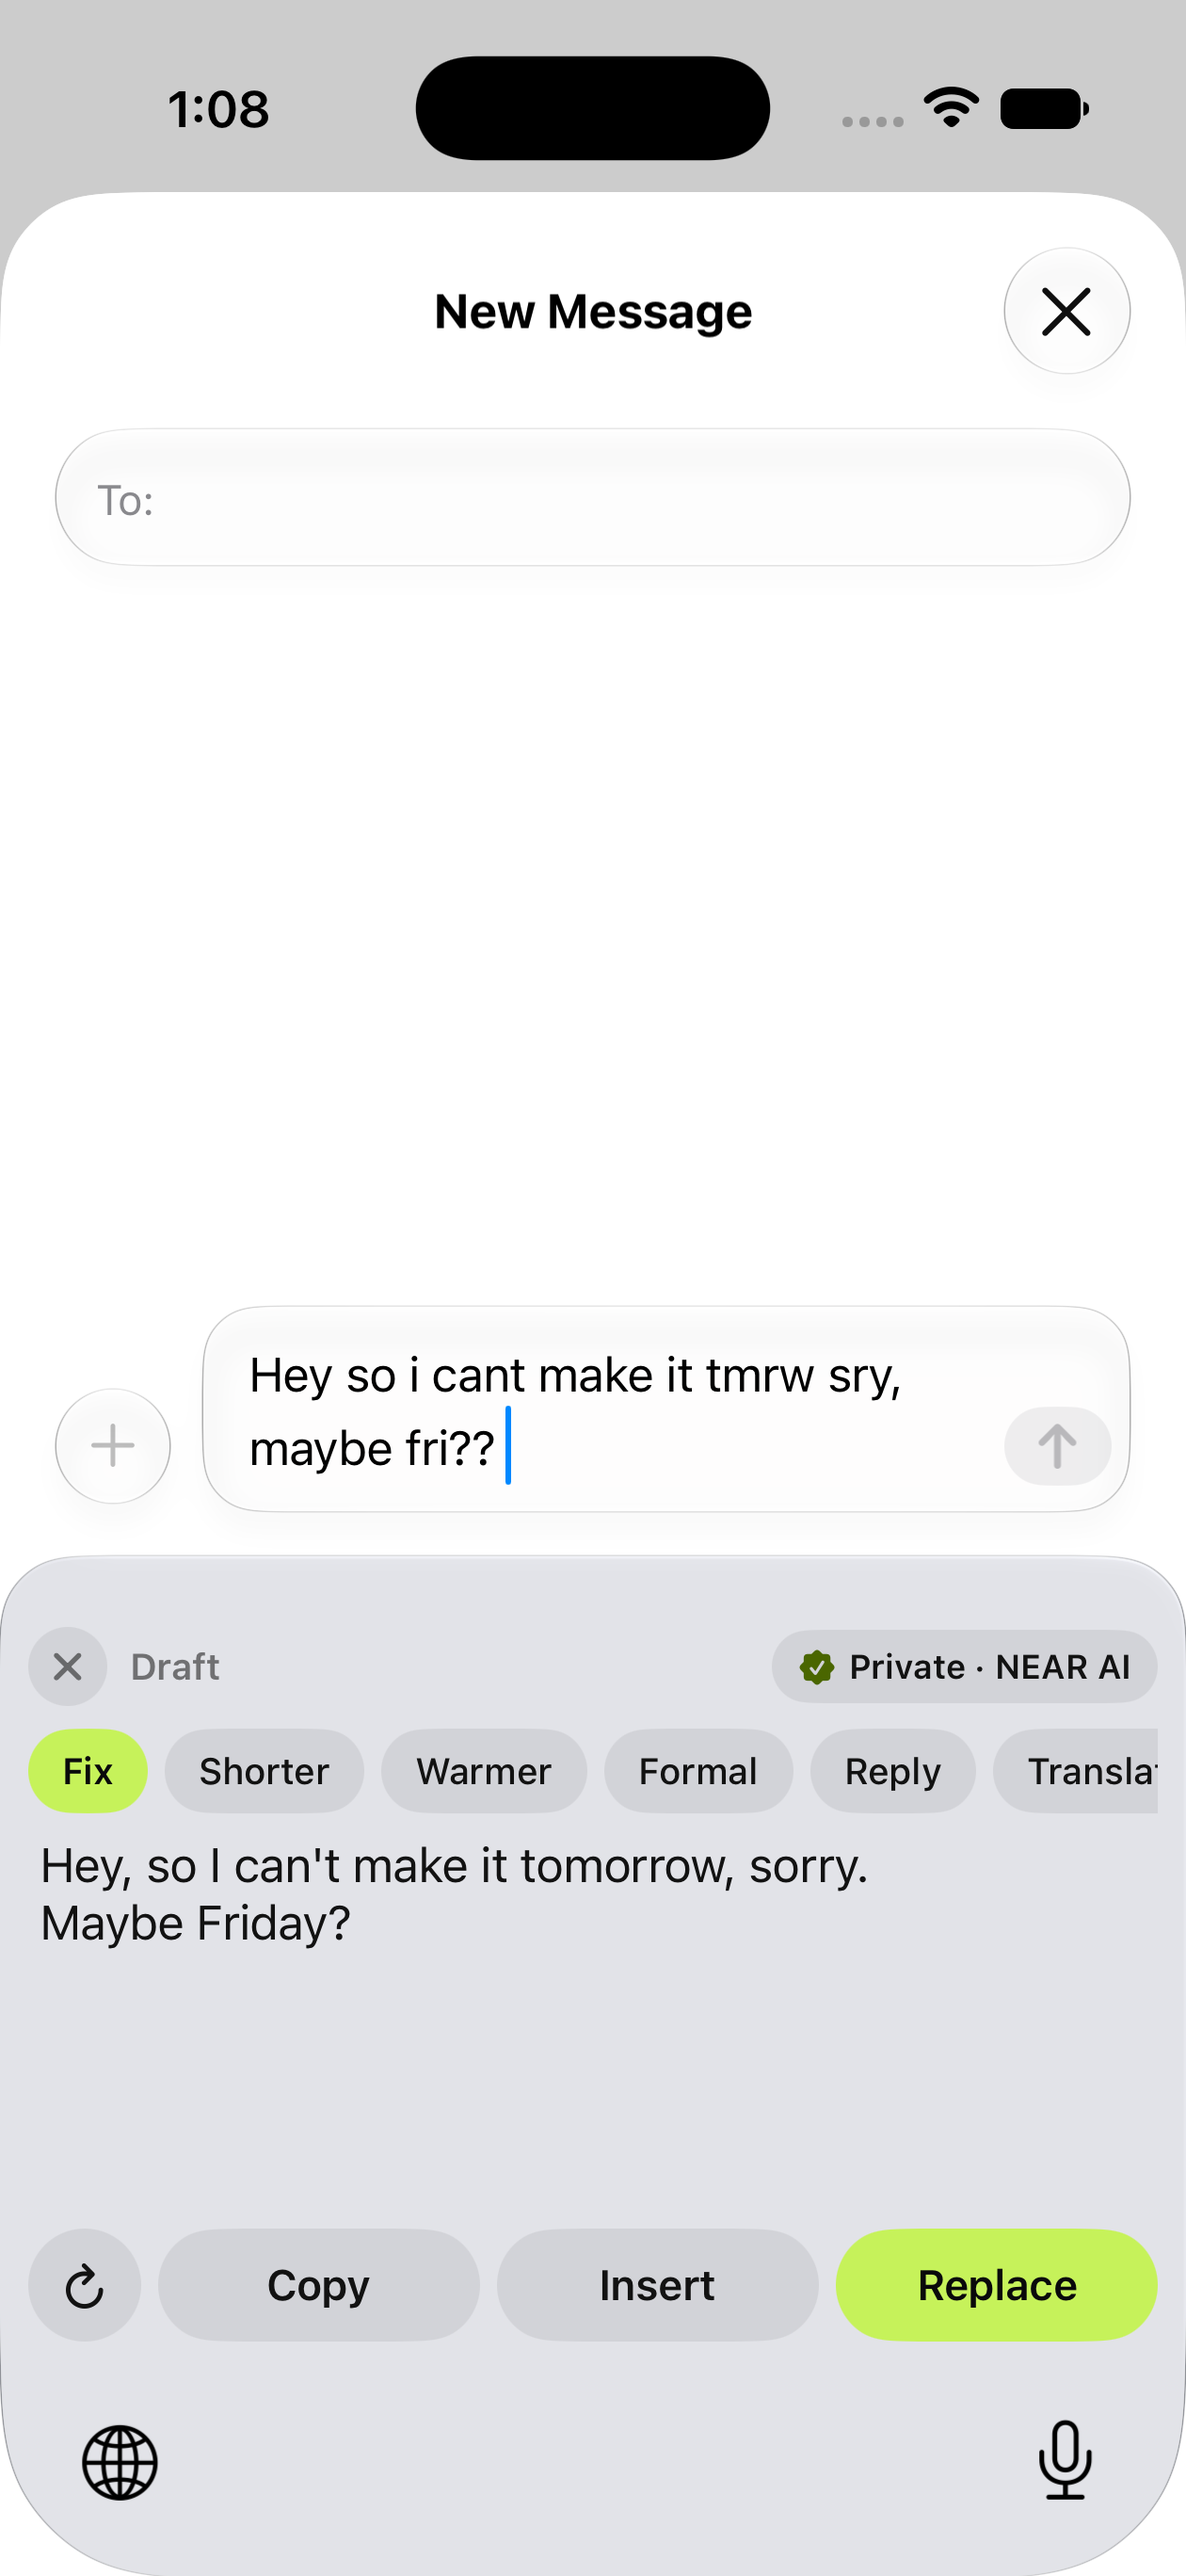
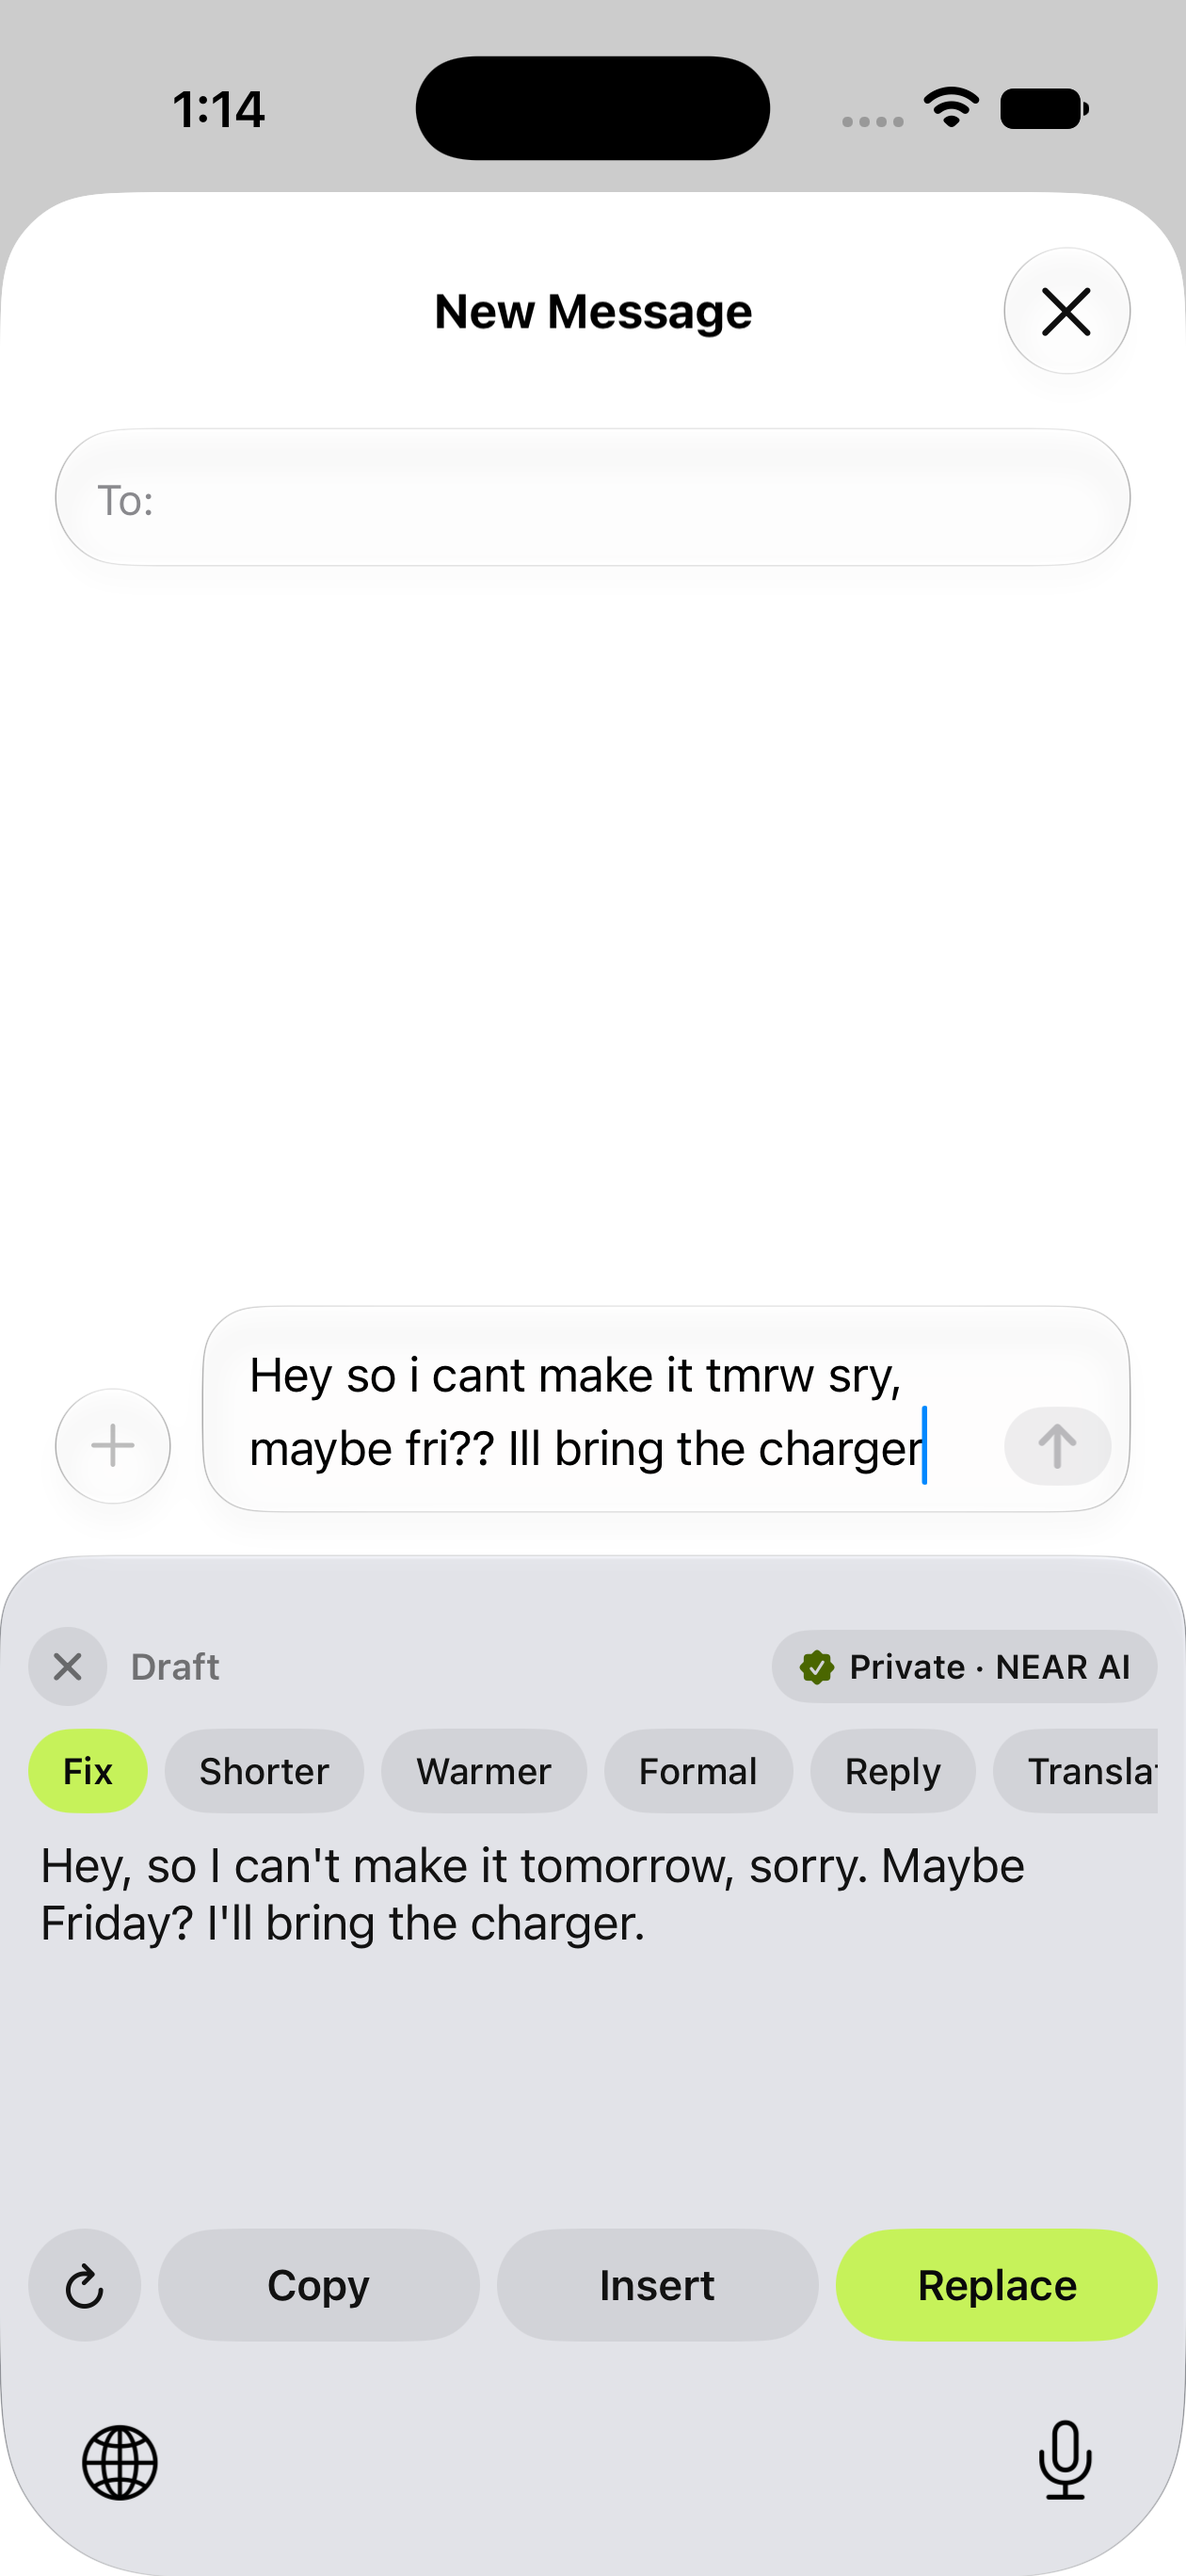
docs: README leads with Kall Markets; the Assist panel replaces the AI bar row; disclosure lists what was adapted from Kall Markets in the window and that the AI panel was written from scratch; live screenshots of Fix and the receipt

diff --git a/README.md b/README.md
@@ -4,7 +4,7 @@
 
 *Your AI. Your keys. Your rules.*
 
-AIRKEY is a phone keyboard with AI agents in it. You type "pay friend.near 0.5 for dinner" in any chat and an agent pays. Each agent has its own NEAR account, and the only thing its key can do is ask the **leash**, a NEAR contract that holds the money and enforces your rules: caps, an allowlist, a blocklist, a kill switch. An agent that gets fooled by a scam message still can't move money the leash doesn't allow.
+AIRKEY extends [Kall Markets](https://github.com/harshalbhangale/Kall-Markets), the trading keyboard built at ETHGlobal Mumbai, into a phone keyboard with AI agents in it. You type "pay friend.near 0.5 for dinner" in any chat and an agent pays. Each agent has its own NEAR account, and the only thing its key can do is ask the **leash**, a NEAR contract that holds the money and enforces your rules: caps, an allowlist, a blocklist, a kill switch. An agent that gets fooled by a scam message still can't move money the leash doesn't allow.
 
 Built at NEAR HACKATHON (1–14 Nov 2026) by Harshal Bhangale. Status: **in progress**. This README only claims what is in the repo; anything planned says *next*.
 
@@ -95,7 +95,7 @@ npm run e2e -- airkey-<yourname>.testnet     # 9 real transactions; writes docs/
 
 ```bash
 cd server && npm install
-npm test                       # 212 tests: parser, receiver checks, swaps on Rhea, quotes, prices, orders, copied calls, the AI bar, OutLayer signing, the full command flow
+npm test                       # 238 tests: parser, receiver checks, swaps on Rhea, quotes, prices, orders, copied calls, the AI bar, OutLayer signing, the full command flow
 npm start                      # http://localhost:8787, uses the agent keys from keys/
 ```
 
@@ -208,7 +208,7 @@ The full product plan is in [docs/PLAN.md](docs/PLAN.md). Where it stands:
 | App screens (Home, Agents, Leash, Receipts, Settings) and the AIRKEY keyboard | **Built** in `ios/` with Liquid Glass; screens and keyboard checked on the simulator against testnet; not yet on a real phone or inside another app |
 | Approval with Face ID, signed on the phone | **Built**: device key in the Keychain, Face ID, the phone signs, the server only relays |
 | AI reading | **Built**: used only for wording the rules can't read. **Private AI on NEAR AI Cloud** (runs in NEAR's TEE) answers by default. Every answer's ECDSA signature is verified against the exact request and response bytes, and its signer must be the address NEAR's hardware attests. Every 10 minutes the server checks the Intel TDX quote (Phala's verifier) and the NVIDIA GPU attestation (NVIDIA NRAS) against a fresh nonce, plus the compose hash and event log (`server/src/attest.ts`, `GET /v1/ai/attestation`). Receipts say verified, partial or failed. Limits: the TDX and GPU verdicts come from Phala and NVIDIA, not a local check; no Intel TCB policy and no TLS binding yet. **OpenAI** is the fallback when NEAR AI has no key or doesn't answer; it isn't private or signed. Every receipt, and the keyboard chip, names the one that actually answered. |
-| Hold-space AI bar in the keyboard | **Built**: hold the space bar to rewrite, reply, translate or change the tone; nothing goes into the message until you tap Replace, Insert or Copy. NEAR AI Cloud answers first; OpenAI is the fallback and is labelled as such, and `AIRKEY_AI_FALLBACK=off` turns it off. Private AI on NEAR AI Cloud (runs in NEAR's TEE; Qwen3-VL 30B Instruct, five rewrite versions in about 1–2 s): signature and hardware attestation verified, as in the row above. |
+| Assist panel in the keyboard | **Built**: hold the space bar and Fix starts on your draft; also Shorter, Warmer, Formal, Reply (three options), Translate, Ask and Search (web results and a one-line answer). Results stream word by word (first word in about 0.4 s, done in about 1–2 s); nothing goes into the message until Replace, Insert or Copy, and Replace can be undone for 5 seconds. A "Private · NEAR AI" badge opens the answer's receipt: model, signature verified, hardware attestation verified, time taken. Text that reads as a payment is never sent to the AI: the panel hands it to the agent instead. A "Fix this" chip appears when a draft looks rough (decided on the phone). Code: `ios/AirKeyKeyboard/Surfaces/Assist/`, `server/src/assist.ts`, `POST /v1/assist`. |
 | A copied crypto call becomes a trade chip | **Built and live on testnet**: Check copied, then a hold-to-confirm chip for the Trading Agent, token checked on NEAR Intents, inside its caps (see Swaps above) |
 | Agent keys held in OutLayer's TEE | **Built, off by default** (`AIRKEY_SIGNER=outlayer`): the agents' `pay` and `swap` are signed inside OutLayer and the leash still decides every payment; the signer works on testnet: a payment, a blocked scam and policy refusals ([evidence](docs/evidence/outlayer-testnet.md)). Each OutLayer-signed action took about 5.7 s (3.7 to 11.2 s) in a 10-run test ([runs](docs/evidence/outlayer-runs.md); that test overlapped a kill-switch test), so the demo signs with local function-call keys. OutLayer returned no attestation we verified. Not the production custody path. |
 | Price chips, buy and sell from the keyboard, sums and currency | **Built**: prices and token list from NEAR Intents; sums and splits on the phone |
@@ -229,6 +229,7 @@ The full product plan is in [docs/PLAN.md](docs/PLAN.md). Where it stands:
 - **Pre-hackathon code (baseline).** Two earlier projects predate this hackathon and parts of them are in this repo:
   - **Kall Markets** (an AI keyboard): the keyboard's core in `ios/AirKeyKeyboard/` (`Layout/`, `Design/`, `Engine/` with the typing engine and its `en.glyd` dictionary, the toolbar, menu, clipboard, emoji and notes surfaces in `Surfaces/`, and `Resources/` fonts, sounds and textures), adapted to AIRKEY.
   - **Kall Markets** (a trading keyboard): the keyboard haptics, the hold-to-confirm pattern, and the app's visual design (masthead, cards, swap card), adapted to AIRKEY.
+  - Also adapted from Kall Markets during the hackathon: the letter-hold actions, the vault shorthand and the GIF tab. The keyboard's AI panel and its server were written from scratch for AIRKEY.
   - Built during the hackathon: the leash contract, the server and its agents, Rhea and NEAR Intents swaps, the AIRKEY agent strip in the keyboard (`ios/AirKeyKeyboard/Agent/`), the money-safe typing rules, the vault, and the app.
 - Built with an AI coding assistant (Claude Code). Harshal chose the product, the rules and every trade-off; the assistant wrote code and tests to those decisions.
 - Testnet only: the leash contract runs on NEAR testnet and has enforced no mainnet swap. Never commit keys: `keys/` and `server/.env` are gitignored.

diff --git a/docs/SUBMISSION-DRAFT.md b/docs/SUBMISSION-DRAFT.md
@@ -36,7 +36,7 @@ Other links (not API fields): landing page https://airkey-keyboard.vercel.app ·
 >
 > The keyboard's own AI (rewrite, reply, translate, Ask) is private AI on NEAR AI Cloud (runs in NEAR's TEE): every answer's signature is verified and its signer is the address NEAR's hardware attests. Every 10 minutes the server checks the Intel TDX quote (with Phala's verifier) and the NVIDIA GPU attestation (with NVIDIA NRAS) against a fresh nonce, plus the compose hash; receipts say verified, partial or failed.
 >
-> Everything runs on NEAR testnet: real transactions for every step, 38 contract tests, 251 server tests. The leash runs on testnet only; mainnet is next.
+> Everything runs on NEAR testnet: real transactions for every step, 38 contract tests, 238 server tests. The leash runs on testnet only; mainnet is next.
 
 ## 3. Tracks (proposed)
 
@@ -54,7 +54,7 @@ The repo's first commit is `d8f0da1` on 2026-11-12, inside the hackathon window 
 | Do | See |
 |---|---|
 | `cd contracts/leash && cargo test` | 38 tests pass: one per rule, approvals, reports, the injection case, swaps and token sells |
-| `cd server && npm install && npm test` | 251 tests: parser, receiver checks, swaps, quotes, orders, copied calls, following, the AI bar, GIFs, OutLayer signing, the full command flow |
+| `cd server && npm install && npm test` | 238 tests: parser, receiver checks, swaps, quotes, orders, copied calls, following, the Assist panel, GIFs, OutLayer signing, the full command flow |
 | Read the last end-to-end run | [`docs/evidence/testnet-e2e.md`](evidence/testnet-e2e.md): 9 of 9 real testnet transactions |
 | Type `pay harshal 0.2` in the keyboard and hold | Paid: [8yfavh6V…](https://testnet.nearblocks.io/txns/8yfavh6Ve4Sbyq55XxHjT3ARiU7MGDwVyFpyHoWaviek) |
 | Copy a scam asking for 5 NEAR, tap the shield | Blocked by the contract on chain: [HkM96rGV…](https://testnet.nearblocks.io/txns/HkM96rGVBx51xEJyDxmdwsRVhE29W6XFtRZ7zZDEEHN4) |
@@ -94,7 +94,7 @@ The repo's first commit is `d8f0da1` on 2026-11-12, inside the hackathon window 
 
 ## 7. Disclosures
 
-- **NOTE FOR HARSHAL, decide before sending:** Kall Markets is entered separately in this hackathon by someone else, and its license is "all rights reserved". Code from Kall Markets is in this repo (the keyboard core below, and parts ported in the window: the hold-space AI bar, letter-hold actions, vault shorthand, smart chips, the GIF tab). Either keep this disclosure exact, or replace that code before submitting.
+- **NOTE FOR HARSHAL, decide before sending:** Kall Markets is entered separately in this hackathon by someone else, and its license is "all rights reserved". Code from Kall Markets is in this repo (the keyboard core below, and parts adapted in the window: letter-hold actions, vault shorthand, the GIF tab; the AI panel was rewritten from scratch). Either keep this disclosure exact, or replace that code before submitting.
 - **Pre-hackathon code (baseline).** Two of Harshal's earlier projects predate this hackathon, and parts of them were adapted into this repo (README › Disclosures):
   - **Kall Markets** (an AI keyboard): the keyboard core in `ios/AirKeyKeyboard/` (`Layout/`, `Design/`, `Engine/` with the typing engine and dictionary, `Surfaces/`, `Resources/`).
   - **Kall Markets** (a trading keyboard): keyboard haptics, the hold-to-confirm pattern, and the app's visual design.
